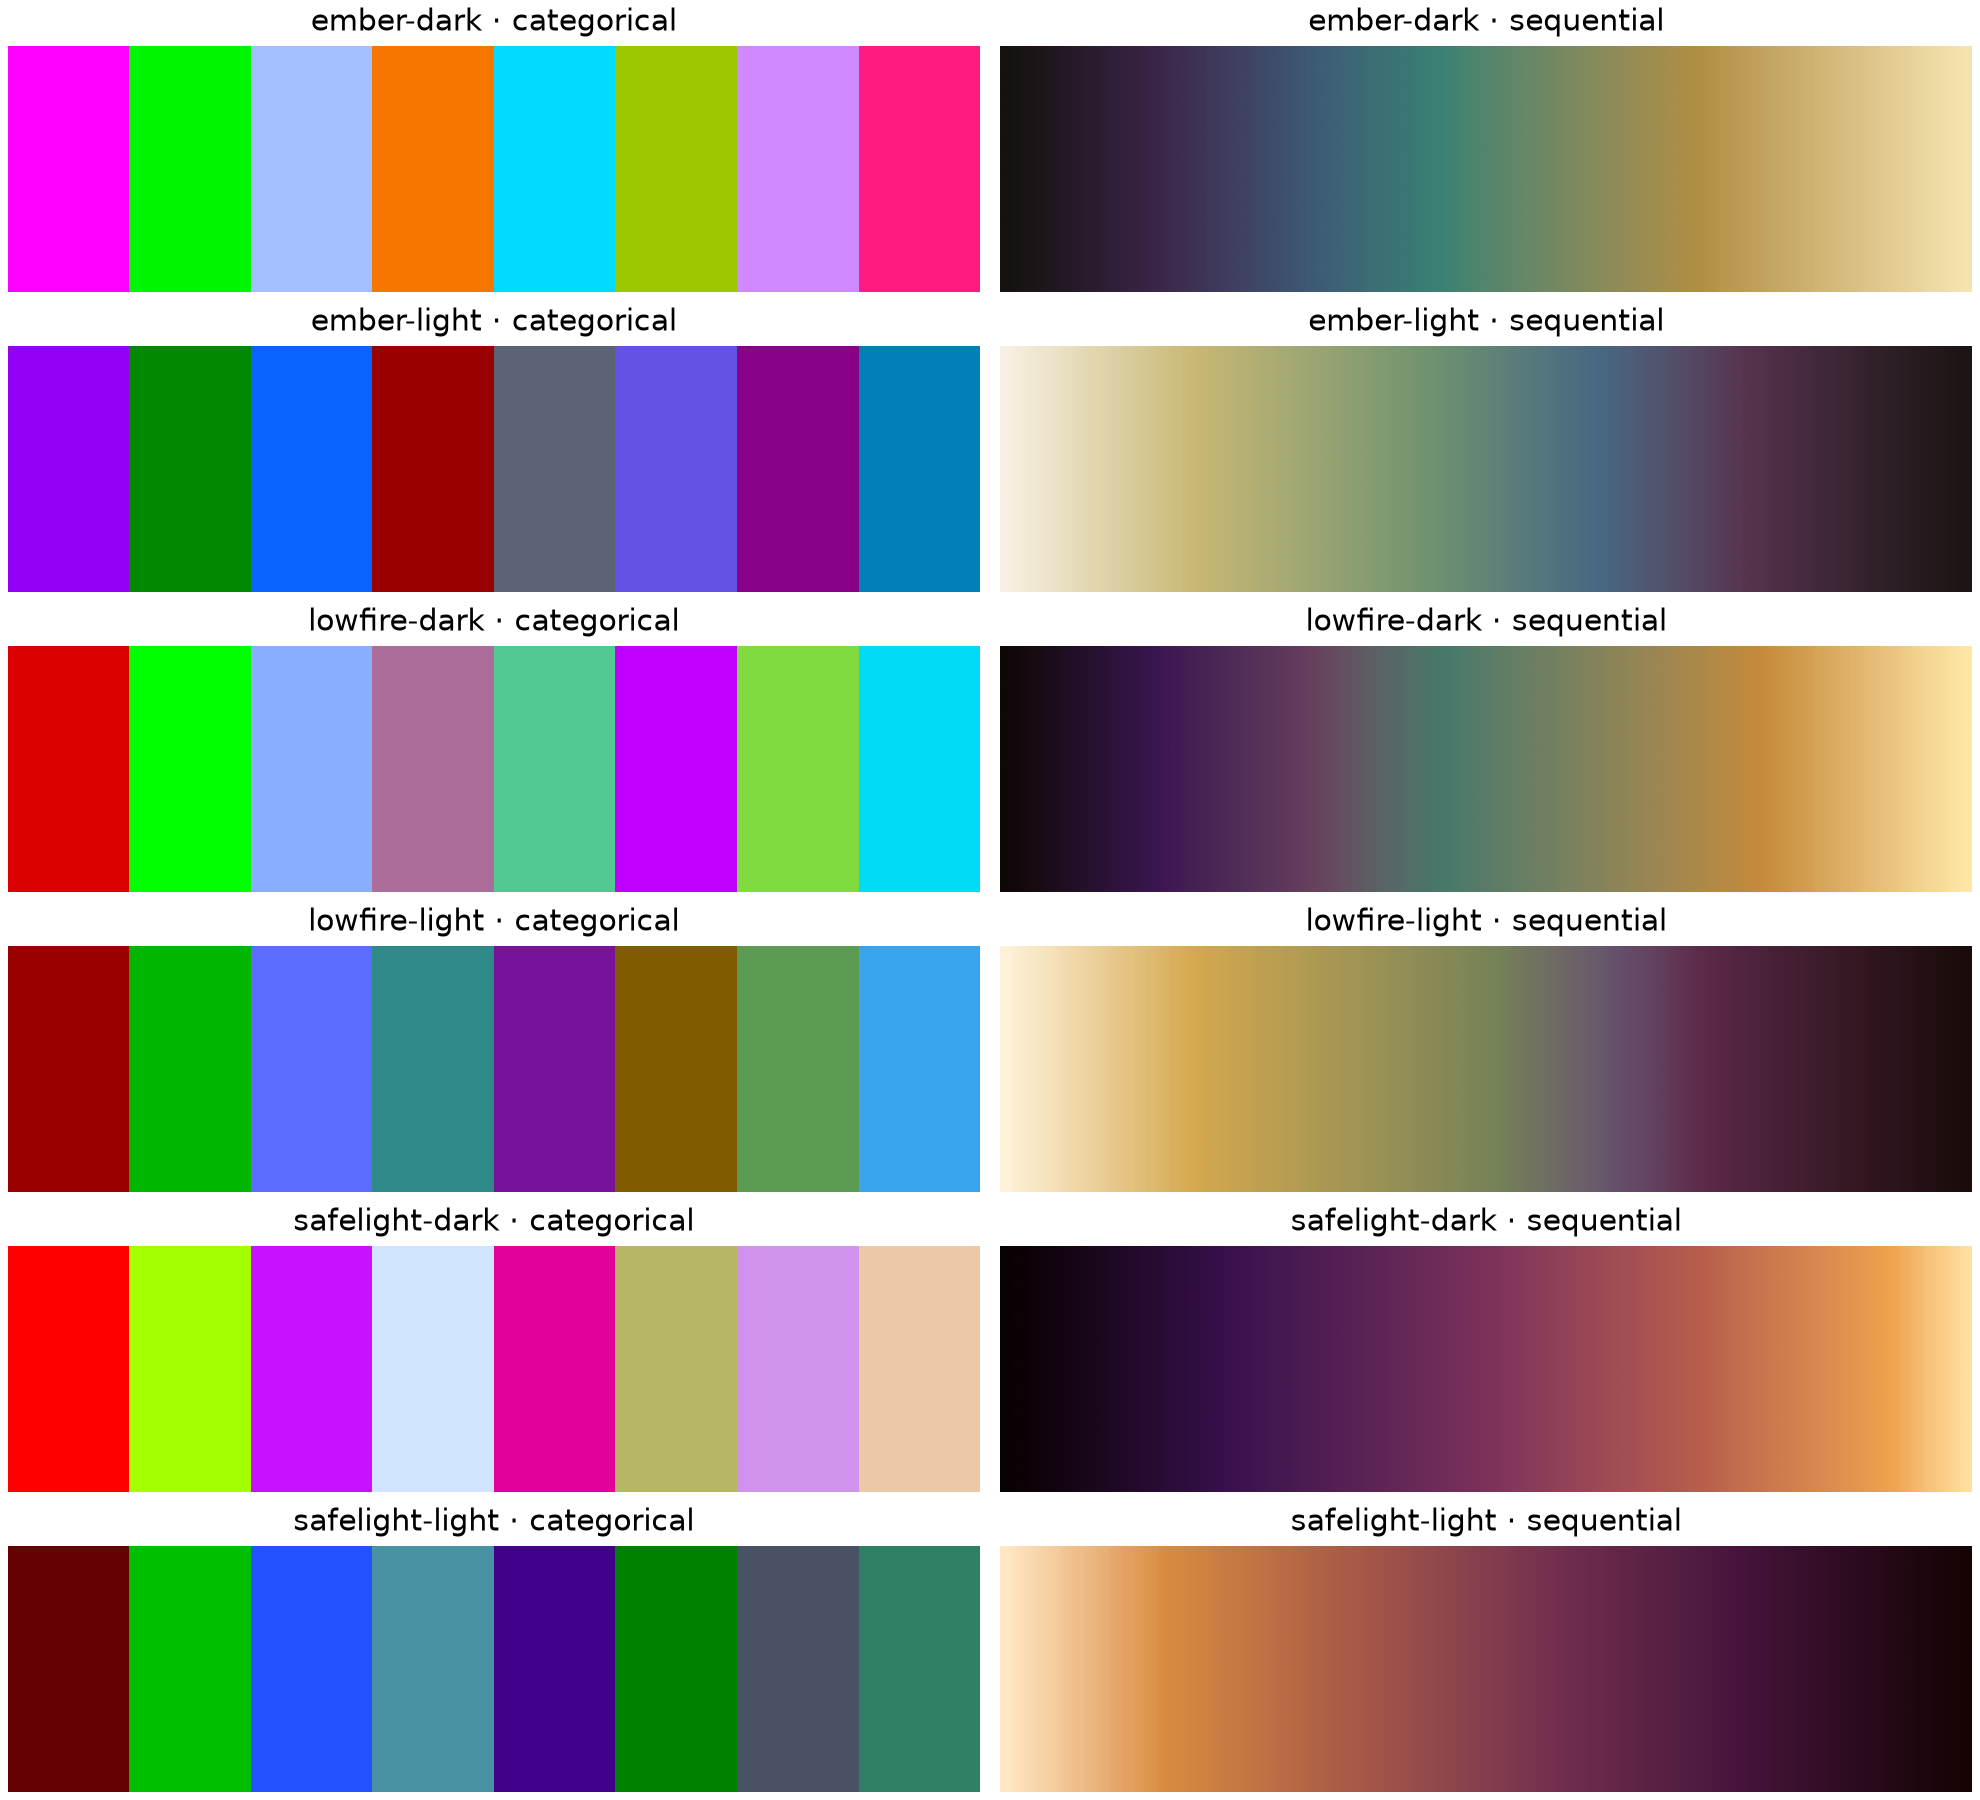
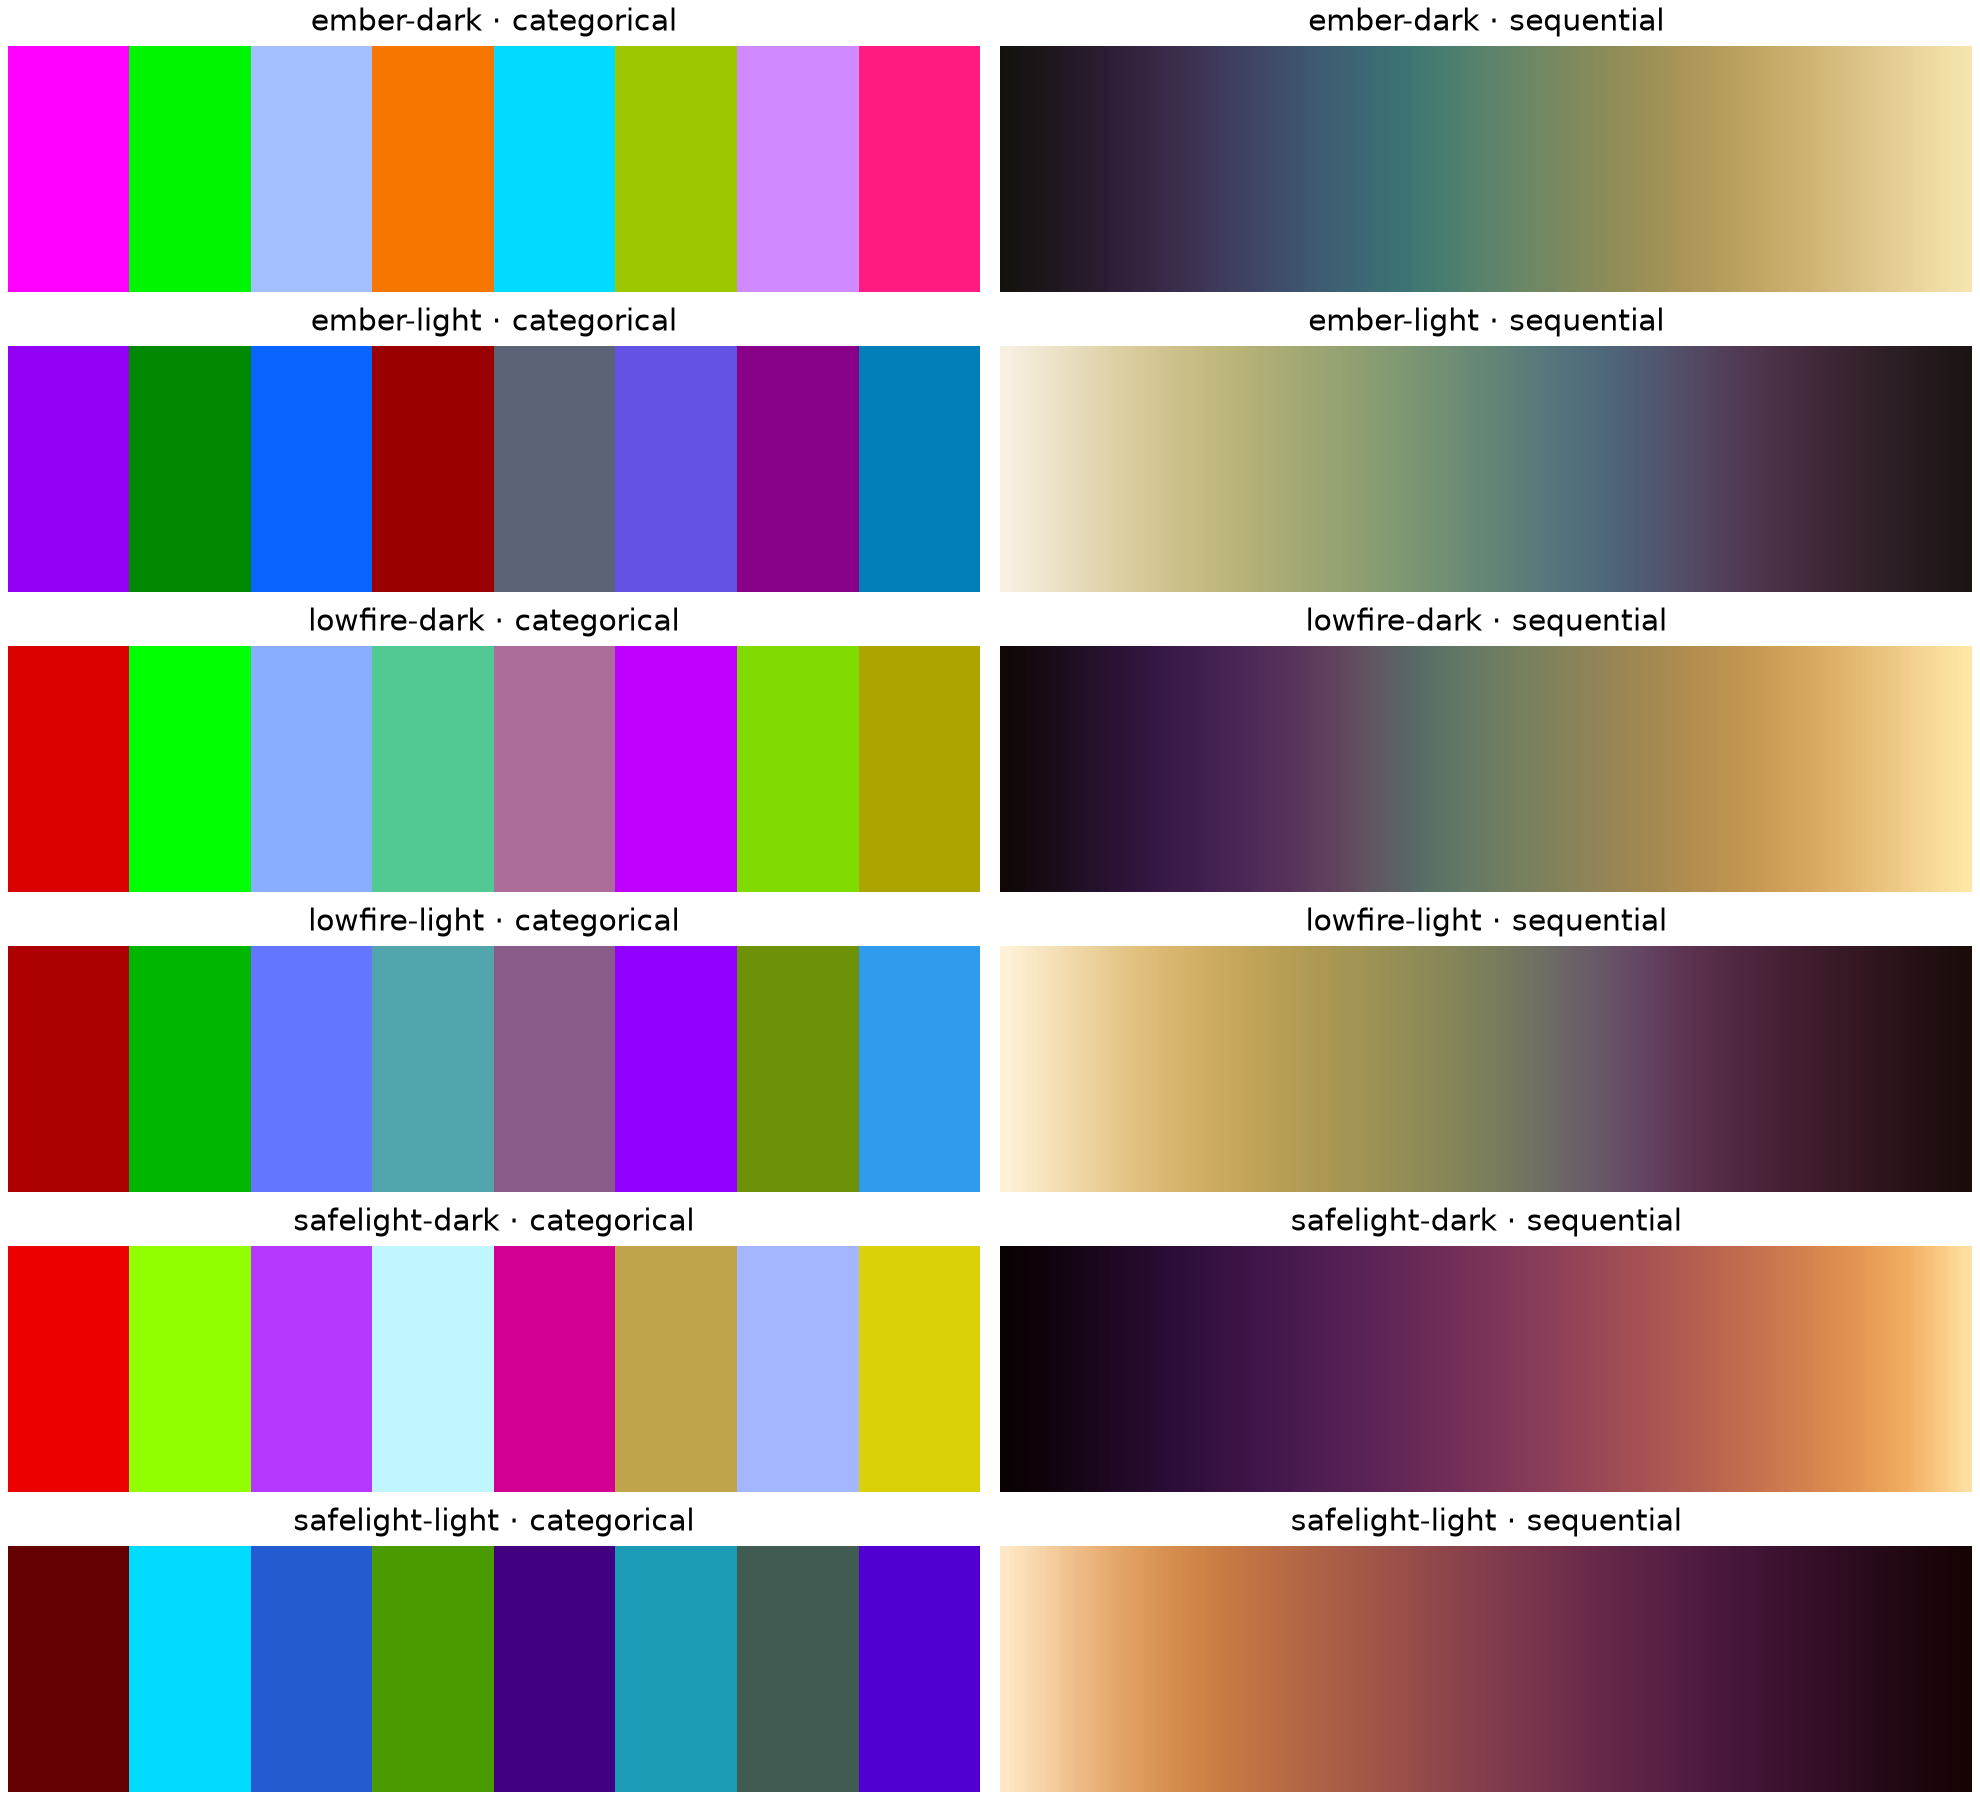
fix: stabilize categorical plotting identities

Changed region(s): [[0.1848, 0.3422, 0.4929, 0.9956], [0.0616, 0.6844, 0.2465, 0.9956]]

diff --git a/tools/build_all.py b/tools/build_all.py
@@ -252,7 +252,45 @@ def build(destination: Path) -> None:
     _write(destination / "palettes/redshift-safe-palettes.json", encoded)
     _write(destination / "src/redshift_safe/palettes.json", encoded)
     _write(destination / "palettes/redshift-safe-palettes.css", _css(manifest))
-    terminal_readme = """# Terminal themes\n\nGenerated imports are provided for Alacritty, iTerm2, and Windows Terminal. Each\nuses the family’s primary background and foreground. Alternative surfaces live in\n`palettes/redshift-safe-palettes.json`; substitute them when a dimmer or more\nseparated canvas is needed.\n"""
+    terminal_readme = """# Terminal themes
+
+Generated imports are provided for Alacritty, iTerm2, and Windows Terminal. Each
+uses the family’s primary background and foreground. Alternative surfaces live in
+`palettes/redshift-safe-palettes.json`; substitute them when a different canvas is
+needed.
+
+## Install
+
+### Alacritty
+
+Copy one TOML file into your Alacritty configuration directory, then import it
+from `alacritty.toml`:
+
+```toml
+[general]
+import = ["~/.config/alacritty/themes/lowfire-dark.toml"]
+```
+
+Restart Alacritty or reload its configuration.
+
+### iTerm2
+
+Open **Settings → Profiles → Colors → Color Presets… → Import…**, choose a
+`.itermcolors` file, then select the imported preset from **Color Presets…**.
+
+### Windows Terminal
+
+Open **Settings → Open JSON file**. Copy one generated scheme object into the
+root `schemes` array, then set a profile’s `colorScheme` to the object’s exact
+`name` value, such as `Lowfire Dark`.
+
+## Surface roles
+
+`foreground` is the body-text role. `foreground_soft` is intended for larger
+supporting text or graphics, and `foreground_muted` for nonessential metadata or
+decoration. The latter two are not universal body-text colors; inspect each
+pairing under `metrics.shifted_text_contrast` in the JSON manifest.
+"""
     _write(destination / "themes/terminal/README.md", terminal_readme)
 
     for slug, family in manifest["families"].items():

diff --git a/src/redshift_safe/matplotlib.py b/src/redshift_safe/matplotlib.py
@@ -3,9 +3,11 @@
 from __future__ import annotations
 
 import json
+from collections.abc import Hashable, Iterable, Sequence
 from importlib.resources import files
 
-from matplotlib.colors import ListedColormap
+import numpy as np
+from matplotlib.colors import BoundaryNorm, ListedColormap
 
 
 def _manifest() -> dict:
@@ -25,6 +27,24 @@ def categorical(slug: str) -> ListedColormap:
     """Return the eight-color categorical map for a family."""
     family = _family(slug)
     return ListedColormap(list(family["categorical"].values()), name=f"{slug}-categorical")
+
+
+def encode_categories(labels: Iterable[Hashable], order: Sequence[Hashable]) -> np.ndarray:
+    """Encode labels into stable palette indices using an explicit global order."""
+    if not 1 <= len(order) <= 8:
+        raise ValueError("category order must contain between 1 and 8 labels")
+    mapping = {label: index for index, label in enumerate(order)}
+    if len(mapping) != len(order):
+        raise ValueError("category order must not contain duplicates")
+    try:
+        return np.asarray([mapping[label] for label in labels], dtype=int)
+    except KeyError as error:
+        raise ValueError(f"label {error.args[0]!r} is missing from category order") from error
+
+
+def categorical_norm() -> BoundaryNorm:
+    """Keep category indices mapped to the same palette slots in every subset."""
+    return BoundaryNorm(np.arange(-0.5, 8.5, 1.0), ncolors=8, clip=True)
 
 
 def sequential(slug: str) -> ListedColormap:

diff --git a/tests/test_exports.py b/tests/test_exports.py
@@ -12,7 +12,7 @@ try:
 except ModuleNotFoundError:  # Python 3.10
     import tomli as tomllib
 
-from redshift_safe import categorical, sequential
+from redshift_safe import categorical, categorical_norm, encode_categories, sequential
 
 ROOT = Path(__file__).resolve().parents[1]
 SLUGS = (
@@ -35,6 +35,13 @@ def test_matplotlib_adapters() -> None:
         assert categorical_map.N == 8
         assert sequential_map.N == 256
         assert np.allclose(sequential_map.colors, manifest["families"][slug]["continuous_rgb"])
+
+
+def test_categorical_encoding_is_stable_for_strings_and_subsets() -> None:
+    order = ["control", "alpha", "beta", "gamma"]
+    assert encode_categories(["control", "beta", "gamma"], order).tolist() == [0, 2, 3]
+    assert encode_categories(["beta", "gamma"], order).tolist() == [2, 3]
+    assert categorical_norm()(np.asarray([0, 2, 3])).tolist() == [0, 2, 3]
 
 
 def test_alacritty_exports_parse() -> None:

diff --git a/examples/matplotlib_gallery.py b/examples/matplotlib_gallery.py
@@ -5,7 +5,7 @@ from __future__ import annotations
 import matplotlib.pyplot as plt
 import numpy as np
 
-from redshift_safe import categorical, sequential
+from redshift_safe import categorical, categorical_norm, sequential
 
 SLUGS = (
     "ember-dark",
@@ -19,7 +19,12 @@ SLUGS = (
 fig, axes = plt.subplots(len(SLUGS), 2, figsize=(11, 10), constrained_layout=True)
 heat = np.outer(np.linspace(0, 1, 80), np.ones(320))
 for row, slug in enumerate(SLUGS):
-    axes[row, 0].imshow(np.arange(8)[None, :], cmap=categorical(slug), aspect="auto")
+    axes[row, 0].imshow(
+        np.arange(8)[None, :],
+        cmap=categorical(slug),
+        norm=categorical_norm(),
+        aspect="auto",
+    )
     axes[row, 0].set_title(f"{slug} · categorical")
     axes[row, 1].imshow(heat.T, cmap=sequential(slug), aspect="auto", origin="lower")
     axes[row, 1].set_title(f"{slug} · sequential")

diff --git a/src/redshift_safe/__init__.py b/src/redshift_safe/__init__.py
@@ -1,5 +1,5 @@
 """Redshift Safe Palettes public Python API."""
 
-from .matplotlib import categorical, sequential
+from .matplotlib import categorical, categorical_norm, encode_categories, sequential
 
-__all__ = ["categorical", "sequential"]
+__all__ = ["categorical", "categorical_norm", "encode_categories", "sequential"]

diff --git a/README.md b/README.md
@@ -68,11 +68,22 @@ python -m pip install "git+https://github.com/carpdiem/redshift-safe-palettes.gi
 
 ```python
 import matplotlib.pyplot as plt
-from redshift_safe import categorical, sequential
+from redshift_safe import categorical, categorical_norm, encode_categories, sequential
 
-plt.scatter(x, y, c=labels, cmap=categorical("lowfire-dark"))
+# Define this once and reuse it for full-data and subset plots.
+category_order = ["control", "alpha", "beta", "gamma"]
+category_ids = encode_categories(labels, category_order)
+plt.scatter(
+    x,
+    y,
+    c=category_ids,
+    cmap=categorical("lowfire-dark"),
+    norm=categorical_norm(),
+)
 plt.imshow(data, cmap=sequential("lowfire-dark"))
 ```
+
+The explicit order and fixed normalization matter: raw strings are not valid Matplotlib color values, and default normalization can silently remap a numeric subset to different colors.
 
 Available slugs:
 
@@ -113,7 +124,7 @@ Ready-to-import themes are included for:
 - [iTerm2](themes/terminal/iterm2/)
 - [Windows Terminal](themes/terminal/windows-terminal/)
 
-Each import uses the primary background and foreground. The JSON manifest exposes two alternate backgrounds and two alternate foreground levels when a display needs a quieter canvas or more separation.
+Each import uses the primary background and foreground. The JSON manifest also exposes alternate surfaces. `foreground` is the body-text role and is guaranteed at 4.5:1 against all three backgrounds after the target transform. `foreground_soft` is for larger supporting text or graphics; `foreground_muted` is for nonessential metadata and decoration. The latter two are intentionally quieter and are **not** universal body-text colors—consult `shifted_text_contrast` in the manifest for each exact pairing.
 
 ---
 

diff --git a/themes/terminal/README.md b/themes/terminal/README.md
@@ -2,5 +2,37 @@
 
 Generated imports are provided for Alacritty, iTerm2, and Windows Terminal. Each
 uses the family’s primary background and foreground. Alternative surfaces live in
-`palettes/redshift-safe-palettes.json`; substitute them when a dimmer or more
-separated canvas is needed.
+`palettes/redshift-safe-palettes.json`; substitute them when a different canvas is
+needed.
+
+## Install
+
+### Alacritty
+
+Copy one TOML file into your Alacritty configuration directory, then import it
+from `alacritty.toml`:
+
+```toml
+[general]
+import = ["~/.config/alacritty/themes/lowfire-dark.toml"]
+```
+
+Restart Alacritty or reload its configuration.
+
+### iTerm2
+
+Open **Settings → Profiles → Colors → Color Presets… → Import…**, choose a
+`.itermcolors` file, then select the imported preset from **Color Presets…**.
+
+### Windows Terminal
+
+Open **Settings → Open JSON file**. Copy one generated scheme object into the
+root `schemes` array, then set a profile’s `colorScheme` to the object’s exact
+`name` value, such as `Lowfire Dark`.
+
+## Surface roles
+
+`foreground` is the body-text role. `foreground_soft` is intended for larger
+supporting text or graphics, and `foreground_muted` for nonessential metadata or
+decoration. The latter two are not universal body-text colors; inspect each
+pairing under `metrics.shifted_text_contrast` in the JSON manifest.
